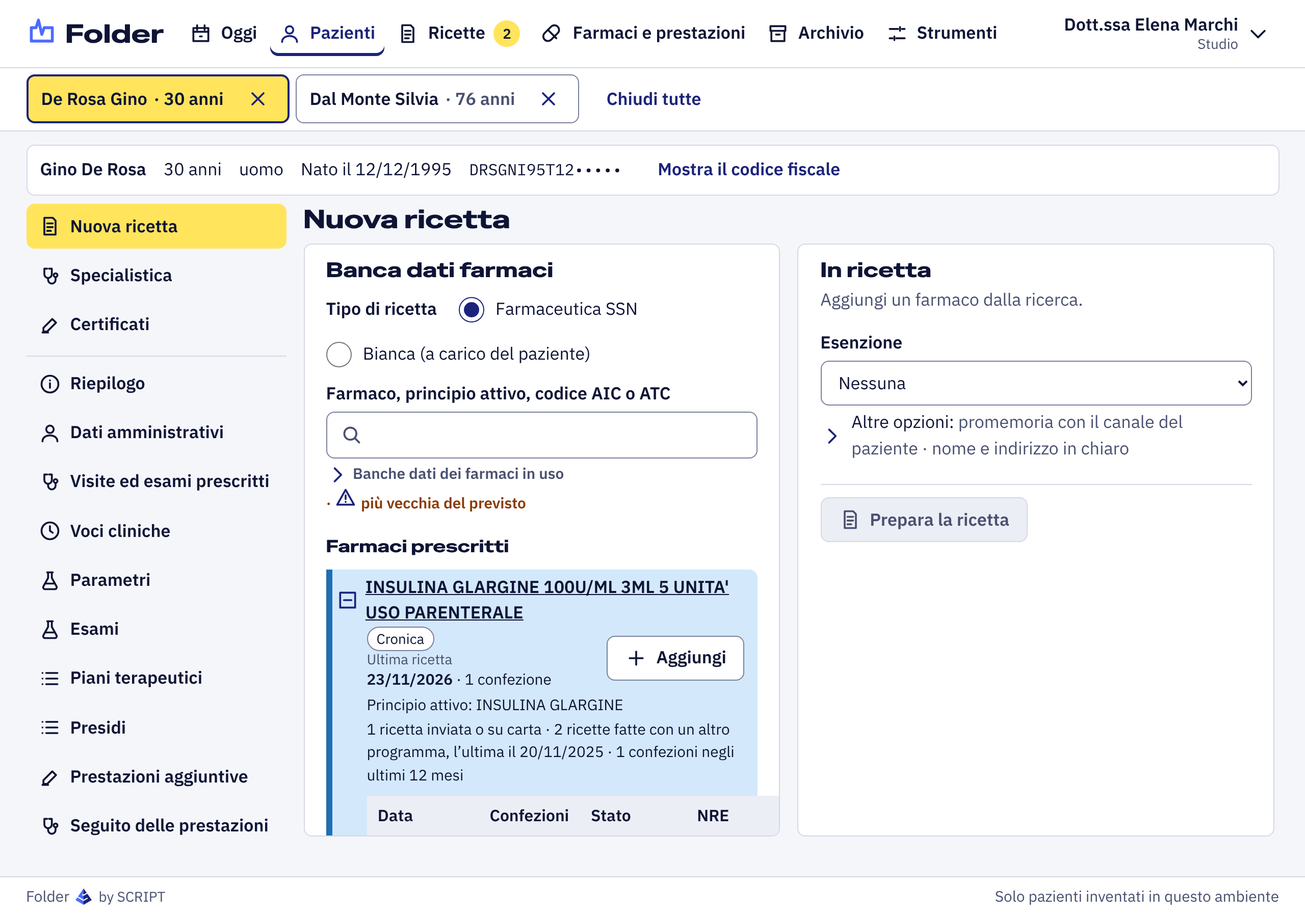
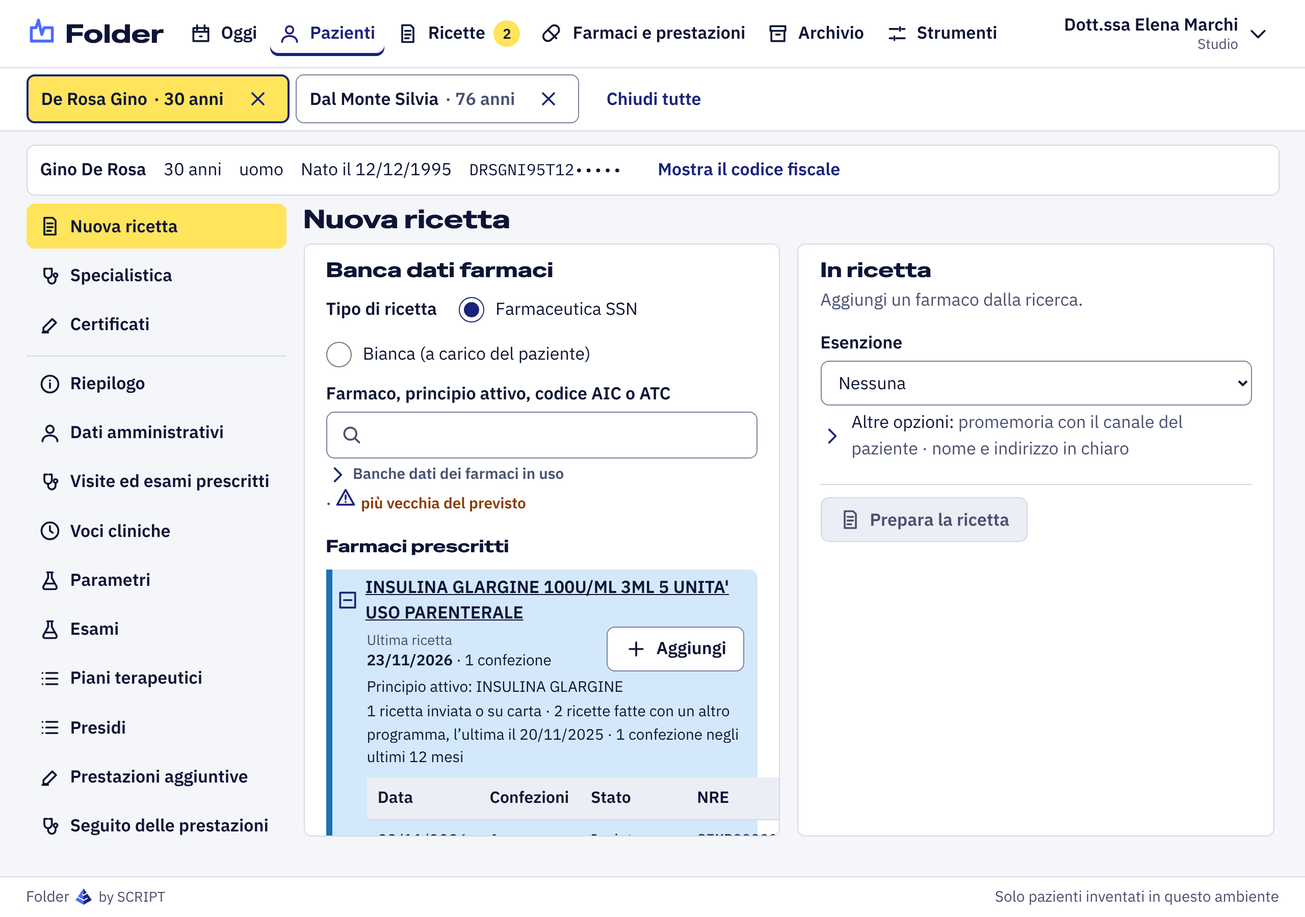
Righe dei farmaci senza la parola del tipo: colore e tratto della barra, con la legenda (D248)
- Tolte dalle righe «Cronica», «Ciclo con data di fine», «Al bisogno», nei farmaci prescritti e
  nella terapia del riepilogo: lo dicono lo sfondo e la barra, spiegati dalla legenda. La parola
  resta per i lettori di schermo.
- Per chi distingue male i colori (WCAG 1.4.1) la barra ha un tratto per tipo: continuo, doppio,
  a puntini; la legenda mostra gli stessi tratti.
- Prove e sabotaggi nel registro, schermate rifatte, documenti.

Claude-Session: https://claude.ai/code/session_01Tv4Yo344qXk13ZKY4SDVSw

Changed region(s): [[0.2812, 0.6844, 0.5938, 0.9333]]

diff --git a/apps/web/src/styles/global.css b/apps/web/src/styles/global.css
@@ -1127,29 +1127,35 @@ a.coda:hover {
   font-weight: 600;
 }
 
-/* Farmaci nella cartella (D152): lo sfondo tenue dice come si prende il farmaco e la barra a
-   sinistra lo ripete in colore pieno; la parola c'è sempre. Senza colore: non in corso. */
+/* Farmaci nella cartella (D152, D248): lo sfondo tenue dice come si prende il farmaco e la
+   barra a sinistra lo ripete in colore pieno, con un tratto suo, per chi non distingue i colori
+   (WCAG 1.4.1): continuo la cronica, doppio il ciclo, a puntini al bisogno. La legenda li spiega;
+   la parola resta solo per i lettori di schermo. Senza colore: non in corso. */
 .farmaco {
   --farmaco-sfondo: var(--color-surface);
   --farmaco-barra: var(--color-border);
+  --farmaco-tratto: solid;
   background: var(--farmaco-sfondo);
-  border-left: 6px solid var(--farmaco-barra);
+  border-left: 6px var(--farmaco-tratto) var(--farmaco-barra);
   border-radius: 0 var(--radius) var(--radius) 0;
 }
 
 .farmaco-cronica {
   --farmaco-sfondo: var(--color-therapy-chronic-surface);
   --farmaco-barra: var(--color-therapy-chronic-edge);
+  --farmaco-tratto: solid;
 }
 
 .farmaco-ciclo {
   --farmaco-sfondo: var(--color-therapy-cycle-surface);
   --farmaco-barra: var(--color-therapy-cycle-edge);
+  --farmaco-tratto: double;
 }
 
 .farmaco-al-bisogno {
   --farmaco-sfondo: var(--color-therapy-as-needed-surface);
   --farmaco-barra: var(--color-therapy-as-needed-edge);
+  --farmaco-tratto: dotted;
 }
 
 .farmaco-non-in-corso {
@@ -1230,13 +1236,14 @@ a.coda:hover {
   margin-left: auto;
 }
 
-/* I campioni della legenda prendono i colori dalle stesse classi delle righe. */
+/* I campioni della legenda prendono colori e tratto dalle stesse classi delle righe; alti
+   abbastanza perché si vedano il doppio e i puntini (D248). */
 .campione {
   display: inline-block;
   width: 1.25rem;
-  height: 0.875rem;
+  height: 1.125rem;
   background: var(--farmaco-sfondo, var(--color-surface));
-  border-left: 4px solid var(--farmaco-barra, var(--color-border));
+  border-left: 6px var(--farmaco-tratto, solid) var(--farmaco-barra, var(--color-border));
   border-radius: 0 3px 3px 0;
 }
 

diff --git a/apps/api/test/e2e/interfaccia.test.ts b/apps/api/test/e2e/interfaccia.test.ts
@@ -916,7 +916,23 @@ describe('interfaccia nel browser', { timeout: 60_000 }, () => {
         return [css.backgroundColor, css.borderLeftColor];
       }),
     ).resolves.toEqual(['rgb(211, 232, 250)', 'rgb(31, 111, 178)']);
-    await chronic.first().getByText('Cronica', { exact: true }).waitFor();
+    // Il tipo lo dicono colore e tratto della barra, spiegati dalla legenda: la parola «Cronica»
+    // non occupa posto nella riga, resta per chi usa un lettore di schermo (D248).
+    await expect(
+      chronic.first().evaluate((el) => getComputedStyle(el).borderLeftStyle),
+    ).resolves.toBe('solid');
+    await expect(
+      chronic.first().locator('.etichetta', { hasText: 'Cronica' }).count(),
+    ).resolves.toBe(0);
+    await expect(
+      chronic.first().locator('.visivamente-nascosto', { hasText: 'Cronica' }).count(),
+    ).resolves.toBe(1);
+    // Nella legenda gli stessi tratti: continuo, doppio, a puntini; grigio continuo non in corso.
+    await expect(
+      page
+        .locator('.riquadro-testa .legenda-colori .campione')
+        .evaluateAll((els) => els.map((e) => getComputedStyle(e).borderLeftStyle)),
+    ).resolves.toEqual(['solid', 'double', 'dotted', 'solid']);
 
     // I farmaci prescritti stanno dentro «Nuova ricetta» (D246); tutti, con le ricette fatte con
     // altri programmi, dal collegamento sotto l'elenco. Il menu resta su «Nuova ricetta».

diff --git a/apps/web/test/farmaci-prescritti-righe.test.tsx b/apps/web/test/farmaci-prescritti-righe.test.tsx
@@ -145,9 +145,12 @@ describe('farmaci prescritti in una riga, con i dettagli che si aprono (D246)', 
     expect(open.getAttribute('aria-expanded')).toBe('false');
     // Il «+» dice da sé che la voce si apre.
     expect(open.querySelector('path[d="M12 8v8"]')).not.toBeNull();
-    expect(item.querySelector('.farmaco-tipo')!.textContent).toBe(
-      'CronicaSSuggerita dallo specialista',
-    );
+    // Il tipo lo dicono sfondo e barra, con la legenda: a vista solo S, la parola per chi usa un
+    // lettore di schermo (D248).
+    expect(
+      [...item.querySelectorAll('.farmaco-tipo .etichetta')].map((e) => e.textContent),
+    ).toEqual(['SSuggerita dallo specialista']);
+    expect(item.querySelector('.farmaco-tipo .visivamente-nascosto')!.textContent).toBe('Cronica');
     expect(item.querySelector('.farmaco-ultima')!.textContent).toBe(
       'Ultima ricetta10/11/2026 · 2 confezioni',
     );

diff --git a/apps/web/src/components/PrescribedDrugs.tsx b/apps/web/src/components/PrescribedDrugs.tsx
@@ -142,7 +142,13 @@ export function PrescribedDrugItem({
         <span className="farmaco-nome">{d.farmaco}</span>
       </button>
       <span className="farmaco-tipo">
-        <span className="etichetta">{t ? THERAPY_KIND[t.tipo] : 'Senza terapia'}</span>
+        {/* Come si prende lo dicono sfondo e tratto della barra, spiegati dalla legenda: la
+            parola solo per chi usa un lettore di schermo (D248). Senza terapia, la parola si vede. */}
+        {t ? (
+          <span className="visivamente-nascosto">{THERAPY_KIND[t.tipo]}</span>
+        ) : (
+          <span className="etichetta">Senza terapia</span>
+        )}
         {origin && (
           <span className="etichetta etichetta-tipologia" title={origin.label}>
             <span aria-hidden="true">{origin.text}</span>

diff --git a/apps/web/src/pages/RecordPage.tsx b/apps/web/src/pages/RecordPage.tsx
@@ -322,7 +322,8 @@ export function RecordPage() {
                       </Link>
                       <span className="tenue">{posology(t)}</span>
                       <span>
-                        <span className="etichetta">{THERAPY_KIND[t.kind]}</span>
+                        {/* Il tipo lo dicono sfondo e tratto della barra, con la legenda (D248). */}
+                        <span className="visivamente-nascosto">{THERAPY_KIND[t.kind]}</span>
                         <OriginTag origin={originOf(t)} />
                         {t.aifaNote && <span className="etichetta">Nota {t.aifaNote}</span>}
                         {t.reserved && <span className="etichetta">Riservata</span>}

diff --git a/CLAUDE.md b/CLAUDE.md
@@ -187,7 +187,7 @@ Quinto blocco (via di Simone del 19/11/2026: «ok. Chiudi tutto ciò che puoi ch
 16. Le scelte della fermata dopo la tappa 15 (D181): ripristino delle credenziali di medici e segreteria anche con SPID o CIE; segreteria confermata per archivio; ritardi crescenti dopo i tentativi falliti, blocco del conto oltre una soglia alta e avviso di ogni blocco; codice fiscale del medico corretto dall'amministratore, in sospeso finché il medico conferma; ricette di altri programmi contate in R11 e R6; scheda intera non riservata nell'AFT; elenchi dello studio scritti dai medici e dall'amministratore.
 17. Diagnosi ICD-9-CM con la ricerca per descrizione (la tabella del Ministero si importa quando si può scaricare) e allegati del DPCM LEA (7, 8, 10, 4D) come trascrizioni controllate. **Fermata dopo la tappa 17**, con lo stesso giro (domande con il pulsante, via, unione).
 
-Fermata dopo la tappa 17 fatta (D191): via, pull request #9 unita. Le verifiche di Simone e della Dr.ssa Rocca si fanno alla fine. Dopo l'unione, nello stesso branch: banche dati aggiornate da chi gestisce il servizio, con il pulsante «Aggiorna adesso» che resta all'amministratore dello studio (D192, D194), soglie dei tentativi confermate, motivo del ritorno da SPID o CIE scritto dal programma (D193). Dopo l'unione della #10: allegato 7 trascritto (D195); l'elenco esenzioni–prestazioni del SAR non si importa perché precedente al nuovo nomenclatore (D196). Fermata dopo l'unione della #10 fatta: via, pull request #11 unita; poi, nello stesso branch, AURA con un simulatore (D197). Fermata dopo l'unione della #11 fatta: via, pull request #12 unita; poi revoca automatica e anagrafica da AURA da confermare (D198). Fermata dopo l'unione della #12 fatta: via, pull request #13 unita; poi nuovi assistiti da AURA, paziente temporaneo in «Nuovo paziente» e stato del paziente alla ricetta (D199). Fermata dopo l'unione della #13 fatta: via, pull request #14 unita; poi la simulazione del deceduto nel browser e il cambio di medico dentro lo studio, con l'avviso in Oggi e lo spostamento confermato dal titolare di prima (D200). Fermata dopo l'unione della #14 fatta: via, pull request #15 unita; poi, nello stesso branch, i riepiloghi per periodo (D201) e le liste AIFA che mancano, con le carenze sui farmaci in terapia, la regola R21 e il collegamento alla farmacovigilanza (D202). Fermata dopo l'unione della #15 fatta: via, pull request #16 unita; poi, nello stesso branch, le prove indipendenti dalla mezzanotte (D203), i riepiloghi anche alla segreteria (D204), le variazioni AIFA sui farmaci in terapia (D205), i registri AIFA (D206), le connessioni inattive chiuse da Postgres, che non fermano più il servizio (D207), e «Aggiorna dalla banca dati» nella scheda della terapia (D208). Fermata dopo l'unione della #16 fatta: via, pull request #17 unita. Pausa fino al pomeriggio del 20/11/2026; alla ripresa, nello stesso branch ripartito da `main`, la R22 che informa sulla confezione sospesa (D210) e l'OCR-A per l'NRE del promemoria (D211), con l'elenco di che cosa resta aperto e per chi in `docs/avanzamento.md` («Che cosa resta aperto»). Fermata dopo la #18 fatta: via, pull request #18 unita. Poi, nello stesso branch ripartito da `main`, le PPIP predisposte per le istruzioni di Regione e ASL (D212, D213, `docs/ppip.md`) e il logo su fondo scuro (D214). Fermata fatta: via, pull request #19 unita (D215). Poi, nello stesso branch ripartito da `main`: modifiche del 2026 ai LEA verificate sulla Gazzetta (D216), promemoria secondo le specifiche di stampa del Sistema TS del 28/02/2024 (D217), allegato 3 dei LEA dalla Gazzetta del 2017 come nomenclatore dei presidi (D218). Fermata fatta: via, pull request #20 unita (D219). Poi, nello stesso branch ripartito da `main`, l'apertura del Fascicolo regionale dalla cartella con un simulatore, sul modulo del CSI del 2019, da confermare con il CSI (D220), la dimostrazione nel browser chiesta da Simone, pubblicata come artifact (D221), e il promemoria su carta A5 per difetto, con A4 come scelta di stampa (D222). Fermata fatta: via, pull request #21 unita (D223). Poi, nello stesso branch ripartito da `main`, la dimostrazione completa: tutto il programma provabile nell'artifact, con prove automatiche anche su Safari e Firefox (D223, D224). Fermata fatta: via, pull request #22 unita (D225). Poi, nello stesso branch ripartito da `main`: le transazioni del servizio («Registra» di AURA in una transazione sola e gli altri punti che scrivono fuori dalla transazione aperta) e, nella dimostrazione, AFT e cambio di medico dentro lo studio (D225): fatti (D226, D227). Fermata fatta: via, pull request #23 unita (D228). Poi, nello stesso branch ripartito da `main`, le prove che mancano: la lettura dei tipi come prova fissa, «Non spostare» e l'attività svolta nell'AFT nella dimostrazione, due registrazioni dello stesso codice fiscale insieme, altre prove instabili (D228): fatte (D229). Fermata fatta: via, pull request #24 unita (D230). Poi, nello stesso branch ripartito da `main`, ciò che resta: «Firma e invia» a controllo finito e le prove che restano (D230): fatti. Fermata fatta: via, pull request #25 unita (D231). Poi, nello stesso branch ripartito da `main`, una revisione indipendente del codice unito dalla #18 alla #25, come quella della #17 (D231): fatta, con le correzioni dei difetti veri (D232). Fermata fatta: via, pull request #26 unita (D233). Poi, nello stesso branch ripartito da `main`, la ricetta e il certificato di malattia fermi «in invio», chiusi come la distinta delle PPIP, anche nella dimostrazione (D233), con due prove instabili con WebKit corrette (D234). Fermata fatta: via, pull request #27 unita (D235). Pausa. Durante la pausa, nello stesso branch ripartito da `main`, i file dei LEA del 2026 mandati da Simone: l'allegato 2 dei presidi trascritto, da controllare, e gli allegati 7 e 8 confrontati con i decreti (D236). Fermata fatta: via, pull request #28 unita (D237). Poi, nello stesso branch ripartito da `main`: la quantità del nomenclatore accanto alla voce scelta e le medicazioni avanzate scelte dal medico titolare (D237), fatte (D238), e una revisione indipendente del codice dalla #26 alla #28 (D237), fatta con le correzioni dei difetti veri (D239). Fermata fatta: via, pull request #29 unita (D240). Poi, nello stesso branch ripartito da `main`, le risposte di quella fermata (D240): il codice di autenticazione obbligatorio per segnare come arrivata una ricetta SSN ferma «in invio», e le prestazioni aggiuntive nella distinta di chi aveva il paziente il giorno dell'esecuzione, anche se registrate dopo «Sposta»; poi WebKit e Firefox in locale (D241) e, dalle prove di Simone sulla dimostrazione, pulsanti mai più stretti del contenuto, ricette in attesa anche alla segreteria, ricetta in una schermata e simbolo sulla base del nome (D242). Fermata fatta: via, pull request #30 unita (D243); nella dimostrazione resta l'estratto dei farmaci. Poi pausa, chiesta da Simone il 21/11/2026. Alla ripresa del 23/11/2026 ricordato il database dei farmaci (D243): «Più avanti», si ricorda alla prossima fermata. Poi, nello stesso branch ripartito da `main`, il primo passo dell'ordine concordato: la cartella in una struttura sola, con fascia del paziente, esenzioni in corso, menu sempre in vista, dati amministrativi e Archivio a sezioni, testata con il nome in alto a destra e il pulsante della dimostrazione nel piede (D244), l'ultima ricetta nei farmaci prescritti (D245) e i farmaci prescritti dentro «Nuova ricetta», con i dettagli col «+» e la legenda piccola (D246): pull request #31, dimostrazione ripubblicata. Fermata fatta: via alla #31, da unire con le prove su GitHub verdi (D247). Dopo, in ordine (`docs/avanzamento.md`, «Che cosa resta da fare, in ordine»): anteprima del PDF, pagina Ricette con «Archivia ricette confermate», ricetta del medico in un passo, database dei farmaci nella dimostrazione; poi l'audit con Cowork a programma chiuso (D247) e il collaudo finale. Le verifiche di Simone e della Dr.ssa Rocca si fanno alla fine: sono in `docs/avanzamento.md`, «Che cosa resta aperto».
+Fermata dopo la tappa 17 fatta (D191): via, pull request #9 unita. Le verifiche di Simone e della Dr.ssa Rocca si fanno alla fine. Dopo l'unione, nello stesso branch: banche dati aggiornate da chi gestisce il servizio, con il pulsante «Aggiorna adesso» che resta all'amministratore dello studio (D192, D194), soglie dei tentativi confermate, motivo del ritorno da SPID o CIE scritto dal programma (D193). Dopo l'unione della #10: allegato 7 trascritto (D195); l'elenco esenzioni–prestazioni del SAR non si importa perché precedente al nuovo nomenclatore (D196). Fermata dopo l'unione della #10 fatta: via, pull request #11 unita; poi, nello stesso branch, AURA con un simulatore (D197). Fermata dopo l'unione della #11 fatta: via, pull request #12 unita; poi revoca automatica e anagrafica da AURA da confermare (D198). Fermata dopo l'unione della #12 fatta: via, pull request #13 unita; poi nuovi assistiti da AURA, paziente temporaneo in «Nuovo paziente» e stato del paziente alla ricetta (D199). Fermata dopo l'unione della #13 fatta: via, pull request #14 unita; poi la simulazione del deceduto nel browser e il cambio di medico dentro lo studio, con l'avviso in Oggi e lo spostamento confermato dal titolare di prima (D200). Fermata dopo l'unione della #14 fatta: via, pull request #15 unita; poi, nello stesso branch, i riepiloghi per periodo (D201) e le liste AIFA che mancano, con le carenze sui farmaci in terapia, la regola R21 e il collegamento alla farmacovigilanza (D202). Fermata dopo l'unione della #15 fatta: via, pull request #16 unita; poi, nello stesso branch, le prove indipendenti dalla mezzanotte (D203), i riepiloghi anche alla segreteria (D204), le variazioni AIFA sui farmaci in terapia (D205), i registri AIFA (D206), le connessioni inattive chiuse da Postgres, che non fermano più il servizio (D207), e «Aggiorna dalla banca dati» nella scheda della terapia (D208). Fermata dopo l'unione della #16 fatta: via, pull request #17 unita. Pausa fino al pomeriggio del 20/11/2026; alla ripresa, nello stesso branch ripartito da `main`, la R22 che informa sulla confezione sospesa (D210) e l'OCR-A per l'NRE del promemoria (D211), con l'elenco di che cosa resta aperto e per chi in `docs/avanzamento.md` («Che cosa resta aperto»). Fermata dopo la #18 fatta: via, pull request #18 unita. Poi, nello stesso branch ripartito da `main`, le PPIP predisposte per le istruzioni di Regione e ASL (D212, D213, `docs/ppip.md`) e il logo su fondo scuro (D214). Fermata fatta: via, pull request #19 unita (D215). Poi, nello stesso branch ripartito da `main`: modifiche del 2026 ai LEA verificate sulla Gazzetta (D216), promemoria secondo le specifiche di stampa del Sistema TS del 28/02/2024 (D217), allegato 3 dei LEA dalla Gazzetta del 2017 come nomenclatore dei presidi (D218). Fermata fatta: via, pull request #20 unita (D219). Poi, nello stesso branch ripartito da `main`, l'apertura del Fascicolo regionale dalla cartella con un simulatore, sul modulo del CSI del 2019, da confermare con il CSI (D220), la dimostrazione nel browser chiesta da Simone, pubblicata come artifact (D221), e il promemoria su carta A5 per difetto, con A4 come scelta di stampa (D222). Fermata fatta: via, pull request #21 unita (D223). Poi, nello stesso branch ripartito da `main`, la dimostrazione completa: tutto il programma provabile nell'artifact, con prove automatiche anche su Safari e Firefox (D223, D224). Fermata fatta: via, pull request #22 unita (D225). Poi, nello stesso branch ripartito da `main`: le transazioni del servizio («Registra» di AURA in una transazione sola e gli altri punti che scrivono fuori dalla transazione aperta) e, nella dimostrazione, AFT e cambio di medico dentro lo studio (D225): fatti (D226, D227). Fermata fatta: via, pull request #23 unita (D228). Poi, nello stesso branch ripartito da `main`, le prove che mancano: la lettura dei tipi come prova fissa, «Non spostare» e l'attività svolta nell'AFT nella dimostrazione, due registrazioni dello stesso codice fiscale insieme, altre prove instabili (D228): fatte (D229). Fermata fatta: via, pull request #24 unita (D230). Poi, nello stesso branch ripartito da `main`, ciò che resta: «Firma e invia» a controllo finito e le prove che restano (D230): fatti. Fermata fatta: via, pull request #25 unita (D231). Poi, nello stesso branch ripartito da `main`, una revisione indipendente del codice unito dalla #18 alla #25, come quella della #17 (D231): fatta, con le correzioni dei difetti veri (D232). Fermata fatta: via, pull request #26 unita (D233). Poi, nello stesso branch ripartito da `main`, la ricetta e il certificato di malattia fermi «in invio», chiusi come la distinta delle PPIP, anche nella dimostrazione (D233), con due prove instabili con WebKit corrette (D234). Fermata fatta: via, pull request #27 unita (D235). Pausa. Durante la pausa, nello stesso branch ripartito da `main`, i file dei LEA del 2026 mandati da Simone: l'allegato 2 dei presidi trascritto, da controllare, e gli allegati 7 e 8 confrontati con i decreti (D236). Fermata fatta: via, pull request #28 unita (D237). Poi, nello stesso branch ripartito da `main`: la quantità del nomenclatore accanto alla voce scelta e le medicazioni avanzate scelte dal medico titolare (D237), fatte (D238), e una revisione indipendente del codice dalla #26 alla #28 (D237), fatta con le correzioni dei difetti veri (D239). Fermata fatta: via, pull request #29 unita (D240). Poi, nello stesso branch ripartito da `main`, le risposte di quella fermata (D240): il codice di autenticazione obbligatorio per segnare come arrivata una ricetta SSN ferma «in invio», e le prestazioni aggiuntive nella distinta di chi aveva il paziente il giorno dell'esecuzione, anche se registrate dopo «Sposta»; poi WebKit e Firefox in locale (D241) e, dalle prove di Simone sulla dimostrazione, pulsanti mai più stretti del contenuto, ricette in attesa anche alla segreteria, ricetta in una schermata e simbolo sulla base del nome (D242). Fermata fatta: via, pull request #30 unita (D243); nella dimostrazione resta l'estratto dei farmaci. Poi pausa, chiesta da Simone il 21/11/2026. Alla ripresa del 23/11/2026 ricordato il database dei farmaci (D243): «Più avanti», si ricorda alla prossima fermata. Poi, nello stesso branch ripartito da `main`, il primo passo dell'ordine concordato: la cartella in una struttura sola, con fascia del paziente, esenzioni in corso, menu sempre in vista, dati amministrativi e Archivio a sezioni, testata con il nome in alto a destra e il pulsante della dimostrazione nel piede (D244), l'ultima ricetta nei farmaci prescritti (D245) e i farmaci prescritti dentro «Nuova ricetta», con i dettagli col «+» e la legenda piccola (D246), e le righe senza la parola del tipo, detto da colore e tratto della barra (D248): pull request #31, dimostrazione ripubblicata. Fermata fatta: via alla #31, da unire con le prove su GitHub verdi (D247). Dopo, in ordine (`docs/avanzamento.md`, «Che cosa resta da fare, in ordine»): anteprima del PDF, pagina Ricette con «Archivia ricette confermate», ricetta del medico in un passo, database dei farmaci nella dimostrazione; poi l'audit con Cowork a programma chiuso (D247) e il collaudo finale. Le verifiche di Simone e della Dr.ssa Rocca si fanno alla fine: sono in `docs/avanzamento.md`, «Che cosa resta aperto».
 
 ## Come si chiude
 

diff --git a/docs/avanzamento.md b/docs/avanzamento.md
@@ -1519,6 +1519,7 @@ Il primo passo dell'ordine concordato con Simone (punti 6–9 qui sopra), con le
 - Farmaci prescritti dentro «Nuova ricetta», sotto la ricerca, con «Aggiungi» per le terapie in corso (con la posologia) e per i farmaci senza terapia che hanno l'AIC (D246). La voce esce dal menu; la pagina intera, con le ricette di altri programmi, resta dal collegamento sotto l'elenco, con il menu su «Nuova ricetta».
 - Una riga per farmaco: nome, come si prende e ultima ricetta; il resto, con le ultime cinque ricette e l'NRE, si apre col «+» (D246).
 - Legenda più piccola, in due colonne, a destra del titolo; nel riepilogo subito sotto «Terapia in corso», a destra (D246).
+- Nelle righe dei farmaci niente parola del tipo («Cronica»…): lo dicono colore e tratto della barra (continuo, doppio, a puntini), spiegati dalla legenda; la parola resta per i lettori di schermo (D248, richiesta di Simone).
 
 **Come provarlo**
 
@@ -3573,3 +3574,6 @@ Ogni controllo nuovo viene rotto apposta (`scripts/sabotaggio.sh`), deve diventa
 | D244: il piede non fa posto al pulsante della dimostrazione                                                   | demo.css: piede senza il posto del pulsante                                                                               | La prima volta la prova scelta non faceva l'accesso ed era rossa anche senza guasto. Con l'accesso e l'accesso regionale: rosso, poi verde                                                                                                                                                                       |
 | D246: riquadro del contenuto che scorre ma non si raggiunge da tastiera                                       | PatientLayout.tsx: com'era prima della correzione                                                                         | Rosso nella prova completa prima della correzione, verde dopo (axe-core: scrollable-region-focusable)                                                                                                                                                                                                            |
 | D246: riga chiusa senza «con un altro programma»                                                              | PrescribedDrugs.tsx: com'era prima della correzione                                                                       | Rosso nella prova completa prima della correzione, verde dopo (prova della tappa 15)                                                                                                                                                                                                                             |
+| D248: parola del tipo di nuovo a vista nei farmaci prescritti                                                 | PrescribedDrugs.tsx: etichetta al posto del testo nascosto                                                                | Rosso, poi verde                                                                                                                                                                                                                                                                                                 |
+| D248: parola del tipo di nuovo a vista nel riepilogo                                                          | RecordPage.tsx: etichetta al posto del testo nascosto                                                                     | Rosso, poi verde                                                                                                                                                                                                                                                                                                 |
+| D248: ciclo con lo stesso tratto della cronica                                                                | global.css: tratto continuo per il ciclo                                                                                  | Rosso, poi verde                                                                                                                                                                                                                                                                                                 |

diff --git a/docs/interfaccia.md b/docs/interfaccia.md
@@ -98,7 +98,7 @@ Le schermate si rigenerano con `test/e2e/schermate.ts` (istruzioni in testa al f
 - **Testata** (D244): il nome di chi è entrato in alto a destra, con la postazione; ruoli, credenziali, password ed «Esci» nel menu che si apre col clic sul nome. Marchio, menu e nome in una riga quando ci stanno; altrimenti il menu va sulla riga sotto.
 - **Cartella in una struttura sola** (D244): una fascia con nome, età, sesso, nascita, codice fiscale mascherato e stato, poi allergie ed esenzioni in corso con la descrizione e la scadenza; il menu della cartella sempre in vista (colonna a sinistra da 1100 px, striscia sotto), con «Nuova ricetta», «Specialistica» e «Certificati» in testa e la voce aperta in giallo. Sul computer e sul tablet in orizzontale la pagina è alta quanto lo schermo e scorre solo il contenuto, che a ogni voce riparte dall'alto. I **dati amministrativi** si aprono una sezione alla volta, dal sottomenu.
 - **Farmaci prescritti** (D245): su ogni riga, nell'ultima colonna, l'ultima ricetta inviata o su carta, con il giorno e le confezioni; le voci dalla più recente, in ogni gruppo.
-- **Farmaci prescritti dentro «Nuova ricetta»** (D246): sotto la ricerca, una riga per farmaco con il nome, come si prende e l'ultima ricetta; col «+» si aprono gli altri dati e le ultime cinque ricette con l'NRE, poi lo storico completo. «Aggiungi» per le terapie in corso, con la posologia, e per i farmaci senza terapia che hanno l'AIC. La voce non è più nel menu della cartella: la pagina intera, con le ricette di altri programmi, si apre dal collegamento sotto l'elenco. La legenda dei colori è piccola, in due colonne, a destra del titolo.
+- **Farmaci prescritti dentro «Nuova ricetta»** (D246): sotto la ricerca, una riga per farmaco con il nome, come si prende e l'ultima ricetta; col «+» si aprono gli altri dati e le ultime cinque ricette con l'NRE, poi lo storico completo. «Aggiungi» per le terapie in corso, con la posologia, e per i farmaci senza terapia che hanno l'AIC. La voce non è più nel menu della cartella: la pagina intera, con le ricette di altri programmi, si apre dal collegamento sotto l'elenco. La legenda dei colori è piccola, in due colonne, a destra del titolo. Nelle righe il tipo lo dicono colore e tratto della barra (continuo la cronica, doppio il ciclo, a puntini al bisogno), senza la parola, che resta per i lettori di schermo (D248).
 - **Cartelle aperte insieme**: fino a 20, una scheda per paziente; ogni scheda riporta all'ultima pagina vista e la ricetta in corso resta ricordata (D68).
 - **Colori**: i blu di SCRIPT per struttura e informazioni; l'evidenziatore giallo per contatori, cartella attiva e selezioni; arancio bruciato per gli avvisi, rosso per errori e blocchi, verde per gli esiti (D69). Ogni messaggio ha anche simbolo e parola.
 - **Ricette**: la segreteria prepara e manda alla firma, e vede le ricette in attesa in sola lettura (D242); il medico controlla, conferma le note, scrive i motivi e firma. Se l'ente non risponde, la ricetta rossa, anche riaprendo la pagina; se l'esito è incerto, niente ricetta rossa finché non è chiaro. Un invio rimasto senza risposta si vede con le sue righe; l'esito si segna dopo averlo confermato, e il promemoria resta con il paziente (D239).

diff --git a/docs/decisioni.md b/docs/decisioni.md
@@ -1840,3 +1840,11 @@ Non provato: i lettori di schermo veri sul «+» e sulla legenda; Safari e Firef
 - **Audit dall'esterno**: «Cowork, a meno che aspettiamo che Folder, al netto del collaudo finale, sia chiuso e quindi attendiamo audit. Che ne dici?». Scelta: l'audit si fa con Cowork, una volta sola, quando il programma è chiuso a parte il collaudo finale, cioè dopo i punti 1–4 e il database dei farmaci. Motivo: le pagine che cambieranno (Ricette, ricetta del medico in un passo, anteprima del PDF) sono proprio quelle che un audit di oggi guarderebbe, e il lavoro andrebbe rifatto. Il testo per Cowork si prepara allora, sulle pagine nuove. Qui non parte nessun agente (regola di `CLAUDE.md`).
 - **Ordine dei farmaci prescritti**: «Dentro i gruppi», come ora, nella pagina e nella ricetta (D245, D246).
 - **Database dei farmaci nella dimostrazione** (D243): «Dopo i punti 1-4. Ma tieni a mente cosa resta da fare». L'elenco in ordine è in `docs/avanzamento.md`, «Che cosa resta da fare, in ordine».
+
+**D248 · Nelle righe dei farmaci niente parola del tipo: lo dicono colore e tratto della barra, spiegati dalla legenda.** Richiesta di Simone del 23/11/2026: «Aggiungere le diciture alla legenda (es. Cronica quando c'è già lo sfondo) non ha senso e aumenta lo spazio utilizzato».
+
+- **Tolte dalle righe** le parole «Cronica», «Ciclo con data di fine», «Al bisogno»: nei farmaci prescritti (pagina e ricetta) e nella terapia in corso del riepilogo. Restano le parole che il colore non dice: «Senza terapia», «Sospesa», «Conclusa», «Riservata», S e H.
+- **Il colore da solo non basta** a chi distingue male i colori (WCAG 1.4.1, nei requisiti con WCAG 2.2 AA). Per questo la barra a sinistra ha un tratto per tipo: continuo la cronica, doppio il ciclo, a puntini al bisogno; grigio continuo ciò che non è in corso. La legenda mostra gli stessi tratti, con campioni un po' più alti perché il doppio e i puntini si vedano. Non serve spazio in più nella riga.
+- **Per chi usa un lettore di schermo** la parola del tipo resta, nascosta alla vista.
+
+Non provato: come si vedono i tratti su schermi a bassa risoluzione e in stampa; i lettori di schermo veri.
